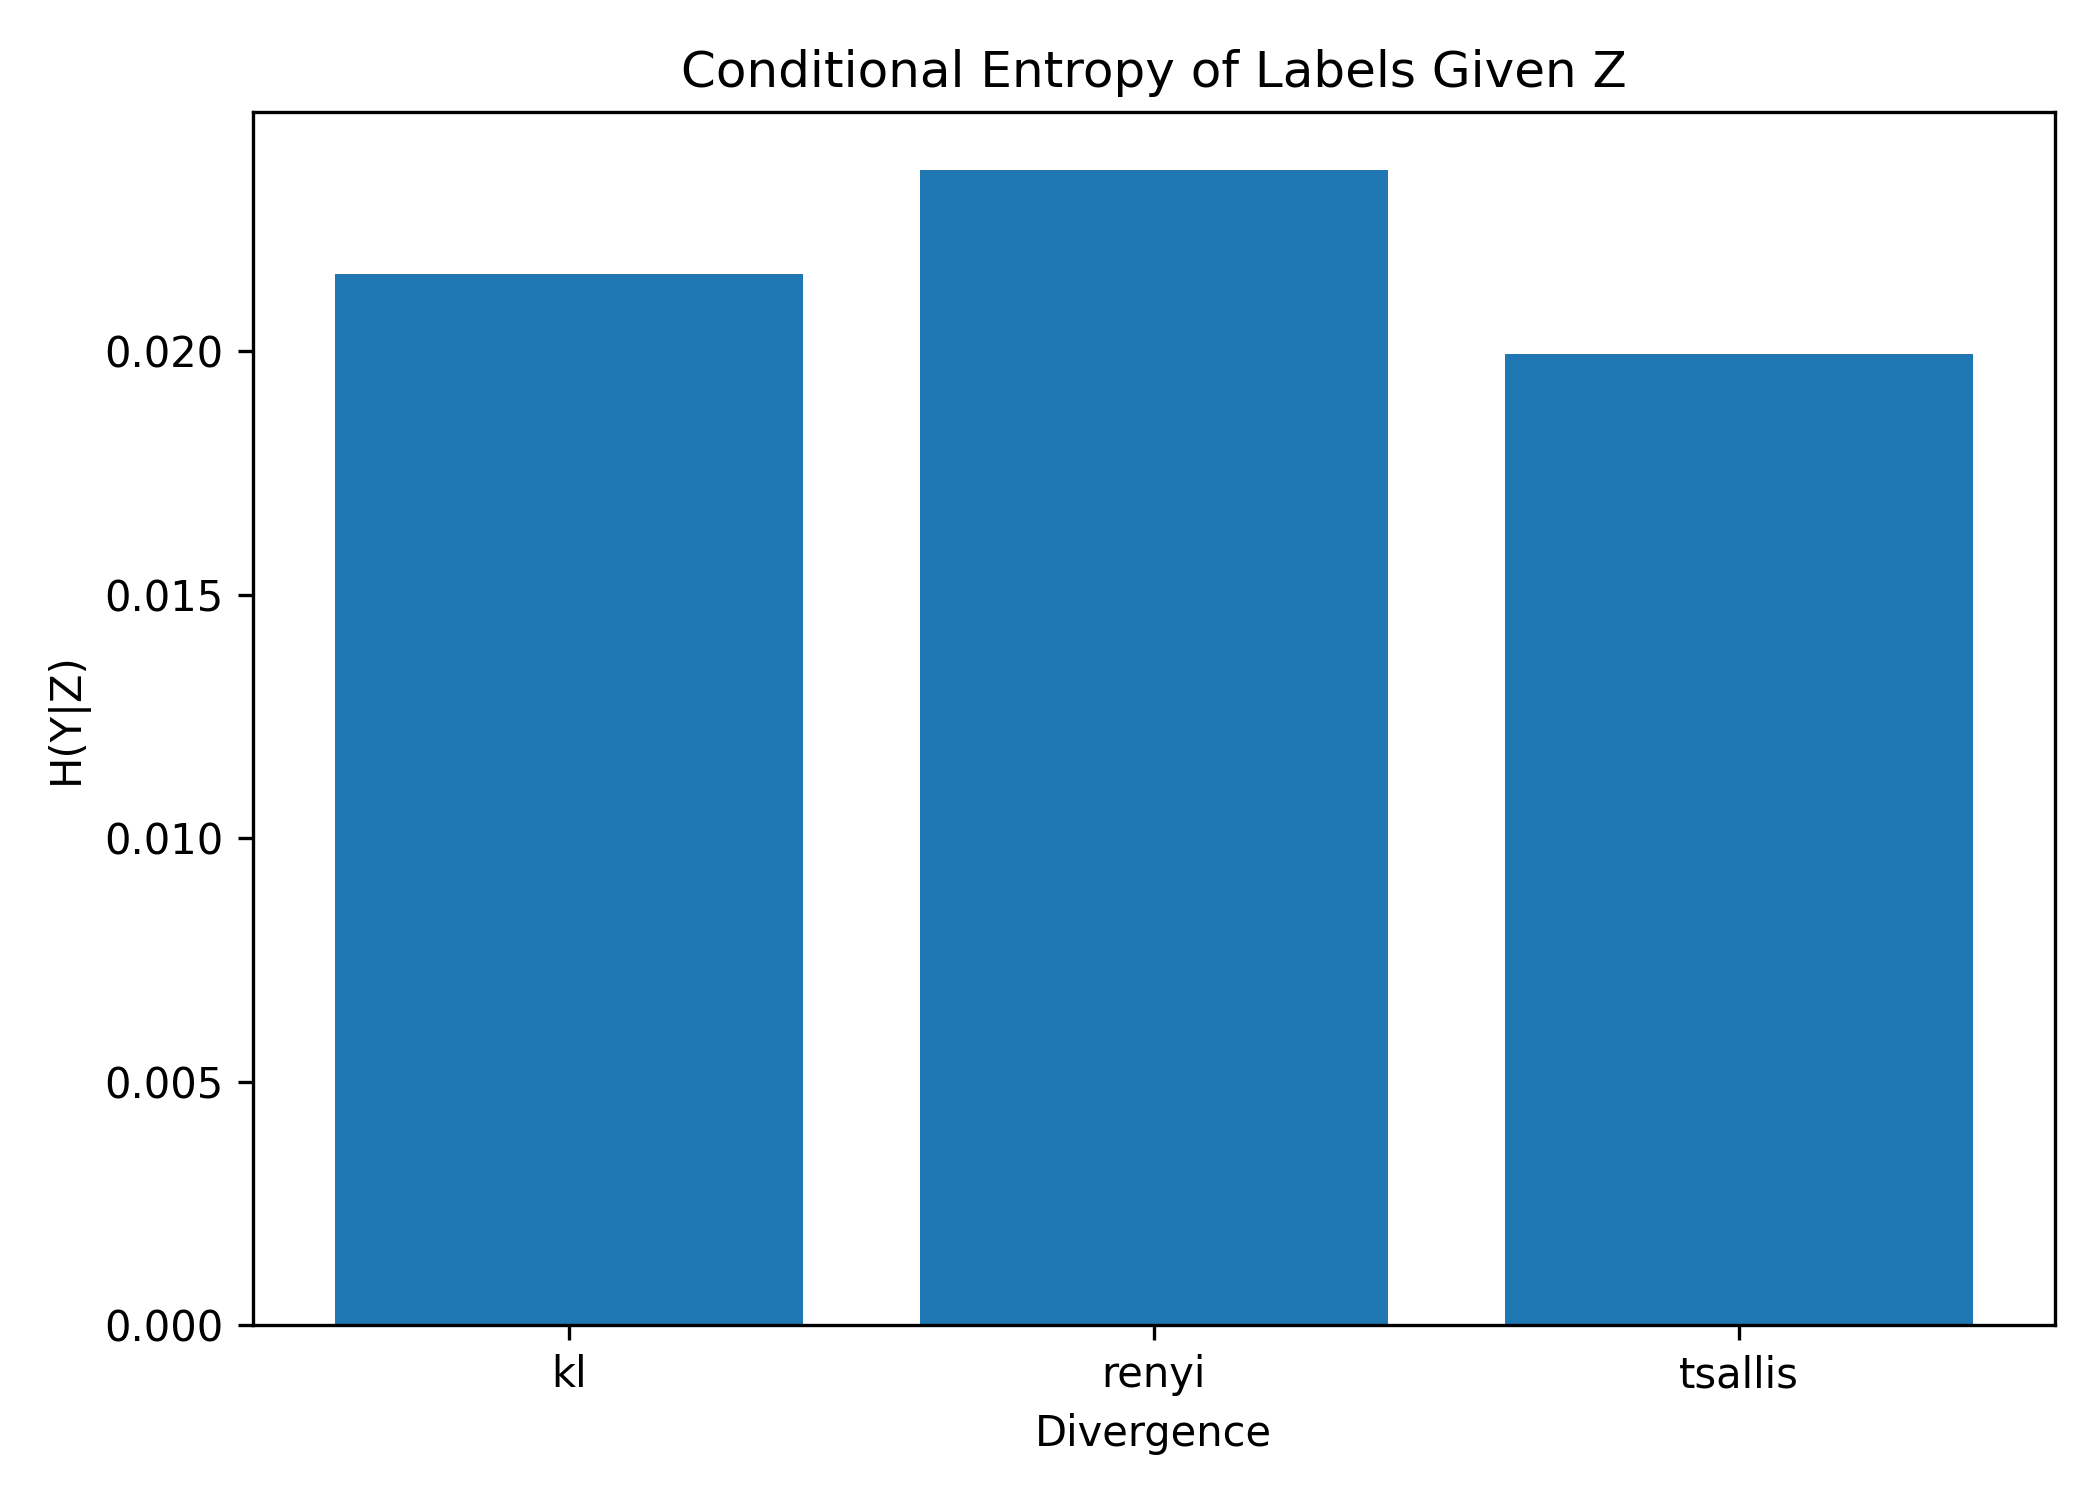
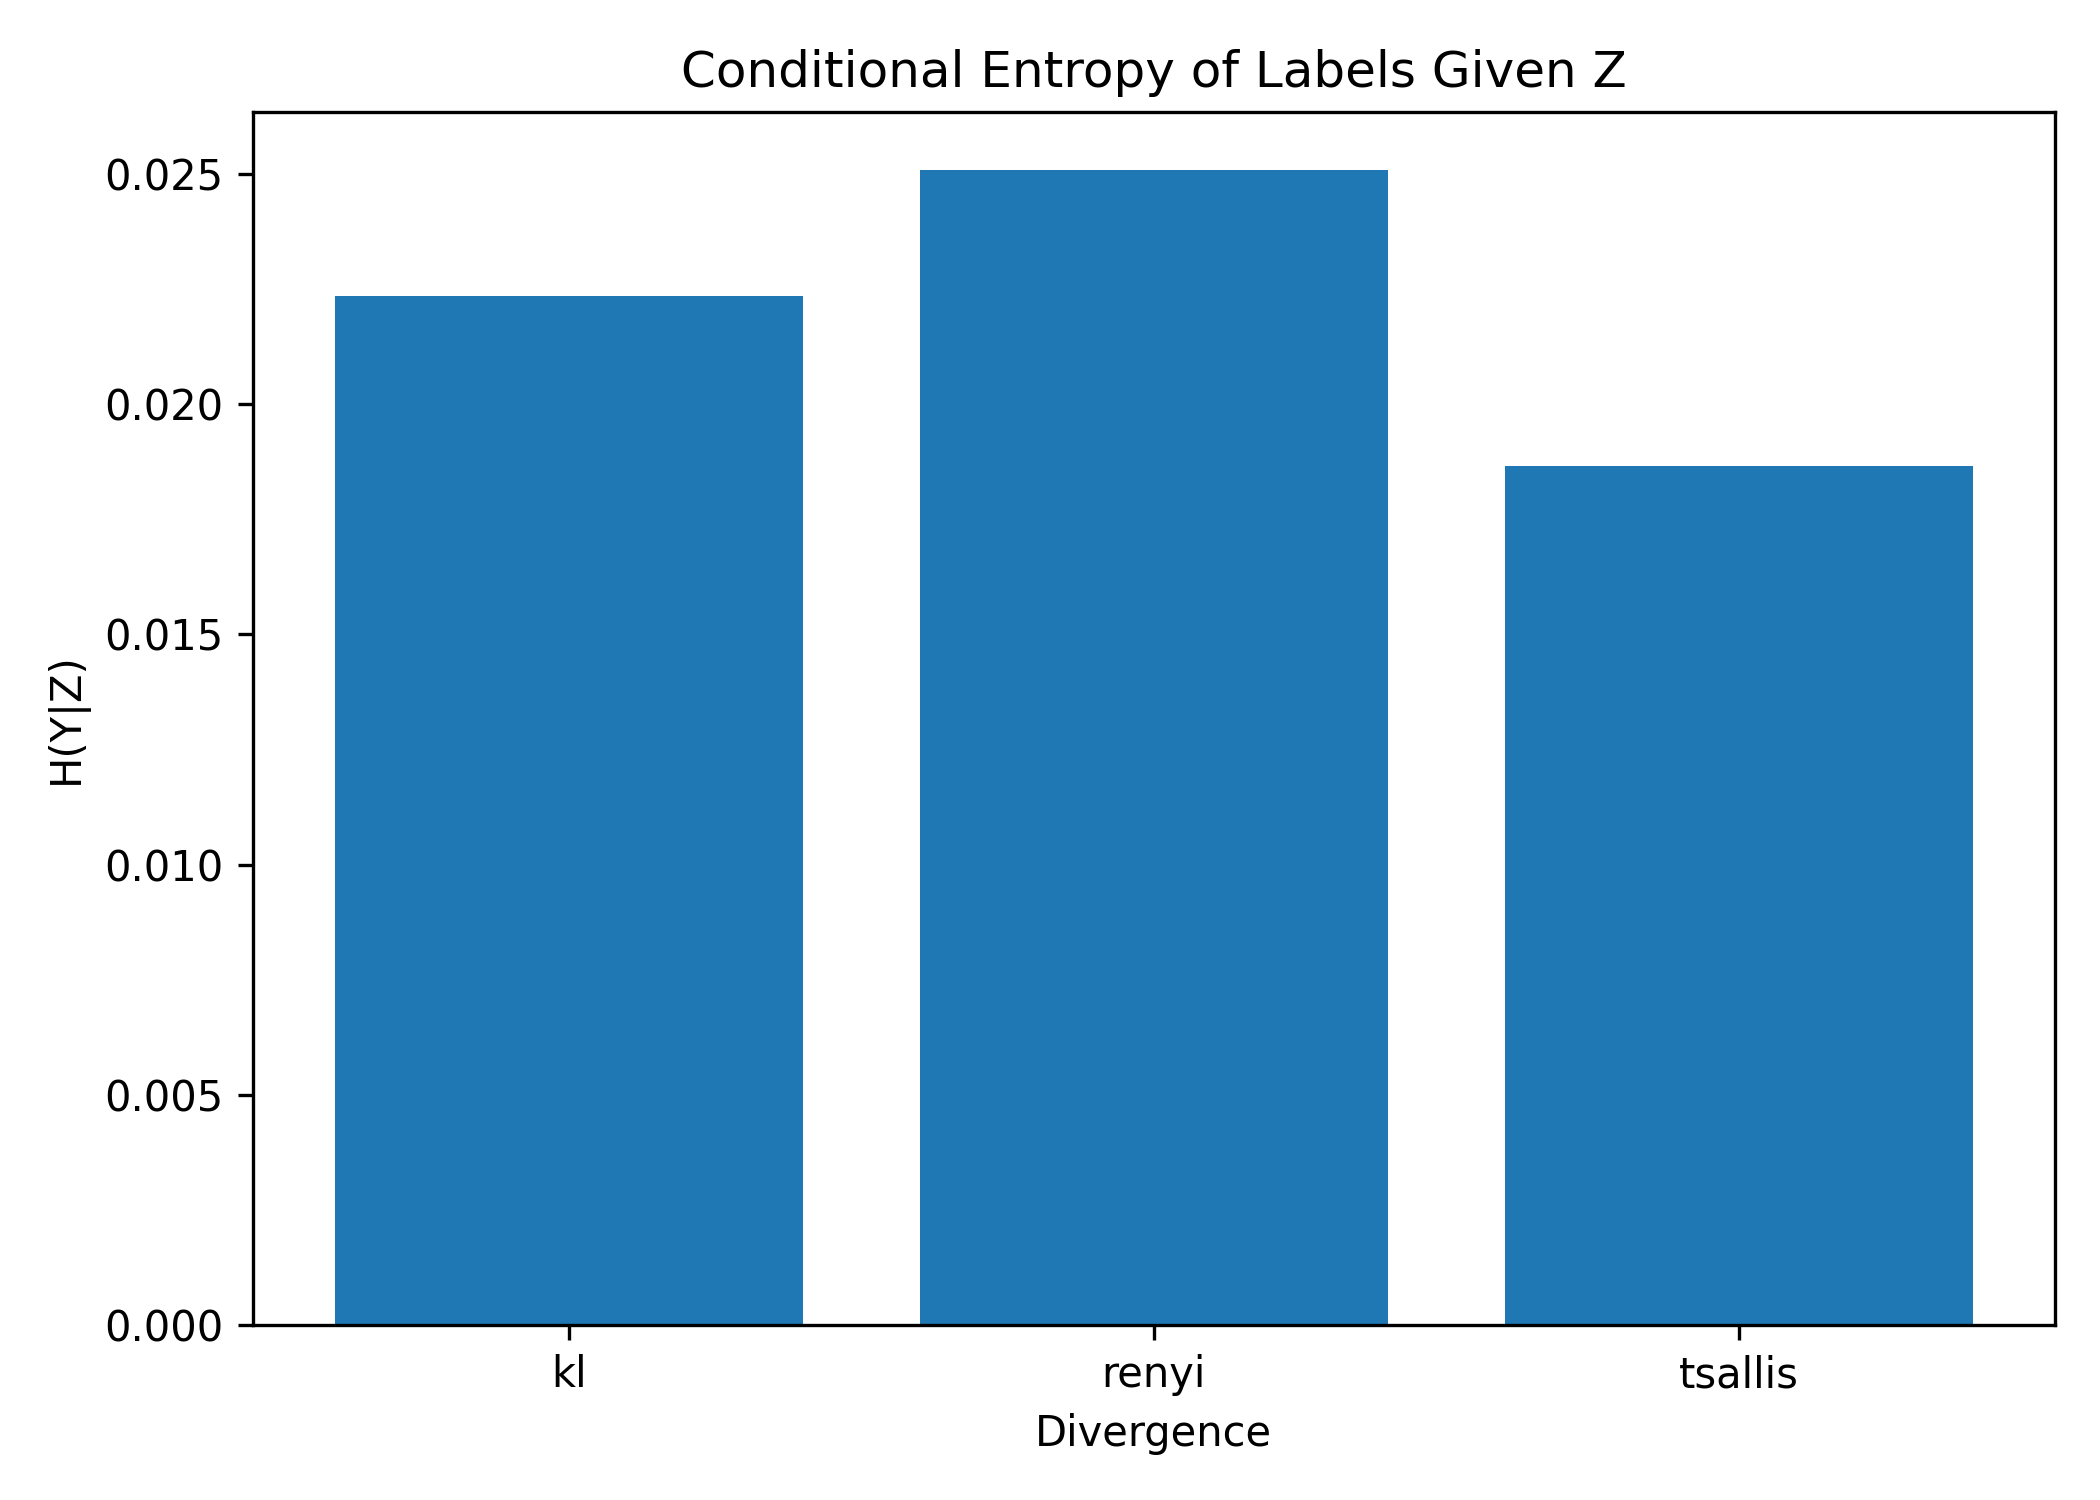
Ran the V3 folder for results and plots

diff --git a/V3/run_experiments.py b/V3/run_experiments.py
@@ -76,9 +76,9 @@ LATENT_DIM = 32
 # Both are calculated using the exact Gaussian closed form.
 # ---------------------------------------------------------
 
-RENYI_ALPHA = 0.5
+RENYI_ALPHA = 0.95
 
-TSALLIS_ALPHA = 0.5
+TSALLIS_ALPHA = 0.95
 
 
 SEED = 42
